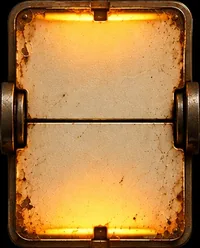
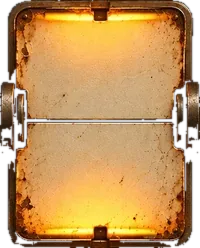
lnurlcash-wallet: Fallblatt-Karten freigestellt, Ziffer mittig, Bold
Kartenbilder mit durchsichtigem Rand (vorher schwarzer Bogen-Hintergrund
→ schwarzer Rahmen auf der Platte); Schein per drop-shadow aus dem
Kartenumriss statt aus dem Kasten; Ziffer mit translateY(−0,05 em) auf
der Achse (gemessen: Ziffernmitte 5 % der Schriftgröße unter der
Zeilenmitte); Bold statt ExtraBold, Schnitt 800 entfernt (Gerhard am
iPad).

Changed region(s): [[0.0, 0.0, 1.0, 1.0], [0.27, 0.0, 0.3, 0.0282]]

diff --git a/src/roehren/fallblatt.css b/src/roehren/fallblatt.css
@@ -20,7 +20,7 @@ html[data-haut='fallblatt'] .rz-schloss-feld {
 html[data-haut='fallblatt'] .rz-schloss .tube {
   border-radius: 3px;
   --fb-bild: url('./fb-karte-1.webp');
-  background: #0c0b0a var(--fb-bild) center / 100% 100% no-repeat;
+  background: transparent var(--fb-bild) center / 100% 100% no-repeat;
 }
 /* acht Varianten: Gerhards vier und dieselben gespiegelt — Flecken und Scharniere wiederholen sich kaum */
 html[data-haut='fallblatt'] .rz-schloss .tube:nth-child(8n + 2) {
@@ -353,7 +353,7 @@ html[data-haut='fallblatt'] .fb-unten .fb-voll {
 html[data-haut='fallblatt'] .fb-fall,
 html[data-haut='fallblatt'] .fb-komm {
   z-index: 3;
-  background: #0c0b0a var(--fb-bild) no-repeat;
+  background: transparent var(--fb-bild) no-repeat;
   background-size: 100cqw 100cqh;
   backface-visibility: hidden;
 }
@@ -439,7 +439,7 @@ html[data-haut='fallblatt'] .fb-zaehl {
 html[data-haut='fallblatt'] .fb-zaehl .tube {
   height: 43px; /* Seitenverhältnis der Karte (200 × 248), nicht der Röhre */
   border-radius: 3px;
-  background: #0c0b0a var(--fb-bild) center / 100% 100% no-repeat;
+  background: transparent var(--fb-bild) center / 100% 100% no-repeat;
   perspective: 200px;
   filter: none;
 }
@@ -721,7 +721,7 @@ html[data-haut='fallblatt']
    schief (die Klappe hat getrennte Hälften); Abrieb und Licht je Karte verschieden; aktive Karten mit
    hellerem Lack. Die Verteilung hängt an fb-v1…8 (Zaehlwerk.tsx: Stelle i → fb-v((3i mod 8) + 1)). */
 html[data-haut='fallblatt'] .fb-zaehl .tube .ch {
-  font-weight: 800;
+  font-weight: 700;
   font-size: 40px;
   font-size: min(104cqh, 128cqw);
   -webkit-mask-position: var(--fb-abrieb, 30% 40%);
@@ -816,7 +816,7 @@ html[data-haut='fallblatt'] .fb-zaehl .tube {
       rgba(10, 6, 2, 0.55),
       transparent 100%
     ),
-    #0c0b0a var(--fb-bild) center / 100% 100% no-repeat;
+    transparent var(--fb-bild) center / 100% 100% no-repeat;
 }
 
 /* ---------- Mechanik stimmig (Gerhards Vergrößerung, 2026-10-26) ----------
@@ -835,7 +835,7 @@ html[data-haut='fallblatt'] .fb-zaehl .tube {
       rgba(10, 6, 2, 0.55),
       transparent 100%
     ),
-    #0c0b0a var(--fb-bild) center bottom / 100% 96.5% no-repeat;
+    transparent var(--fb-bild) center bottom / 100% 96.5% no-repeat;
 }
 html[data-haut='fallblatt'] .fb-zaehl .tube .glow {
   background: var(--fb-hell) center bottom / 100% 96.5% no-repeat;
@@ -1024,4 +1024,26 @@ html[data-haut='fallblatt'] .fb-zaehl .satsym svg {
   stroke-linecap: square;
   filter: drop-shadow(0 1px 0 rgba(0, 0, 0, 0.9))
     drop-shadow(0 0 1px rgba(0, 0, 0, 0.8));
+}
+
+/* ---------- Gerhard am iPad, 2026-10-26: schwarzer Rahmen, Ziffer zu tief, Schrift zu fett ----------
+   Die Kartenbilder sind freigestellt (durchsichtig um die Karte; vorher schwarzer Bogen-Hintergrund) —
+   kein Grundton mehr hinter den Karten. Die Ziffer sitzt mit translateY(−0,05 em) genau auf der Achse:
+   gemessen liegt die Ziffernmitte bei Zeilenhöhe 1 um 5 % der Schriftgröße unter der Zeilenmitte; als em
+   wächst die Korrektur mit der Schrift (vorher fest −3 cqh, nach dem Vergrößern zu wenig). Bold statt
+   ExtraBold — Tafelschrift statt Plakat. */
+html[data-haut='fallblatt'] .fb-zaehl .tube .ch {
+  font-weight: 700;
+}
+html[data-haut='fallblatt'] .fb-zaehl .fb-voll .ch {
+  transform: translateY(-0.05em);
+}
+/* Schein aus dem Umriss der Karte (drop-shadow folgt dem freigestellten Bild), nicht aus ihrem
+   rechteckigen Kasten — sonst blieb zwischen Kartenrand und Kastenkante ein dunkler, eckiger Rahmen */
+html[data-haut='fallblatt'] .fb-zaehl:not(.cold):not(.idle) .tube:not(.unlit) {
+  box-shadow: none;
+  filter: brightness(1.1) saturate(0.92)
+    drop-shadow(0 -3px 5px rgba(255, 200, 110, calc(var(--fb-licht) * 1.2)))
+    drop-shadow(0 3px 5px rgba(255, 200, 110, calc(var(--fb-licht) * 1.2)))
+    drop-shadow(0 0 10px rgba(246, 150, 40, calc(var(--fb-licht) * 0.5)));
 }

diff --git a/src/roehren/haut.ts b/src/roehren/haut.ts
@@ -5,7 +5,6 @@
 import {createSignal} from 'solid-js'
 import '@fontsource/barlow-condensed/latin-500.css'
 import '@fontsource/barlow-condensed/latin-700.css'
-import '@fontsource/barlow-condensed/latin-800.css' // Zählwerk-Ziffern
 import './fallblatt.css'
 import {hintergrundNeu} from './leuchtkraft'
 
